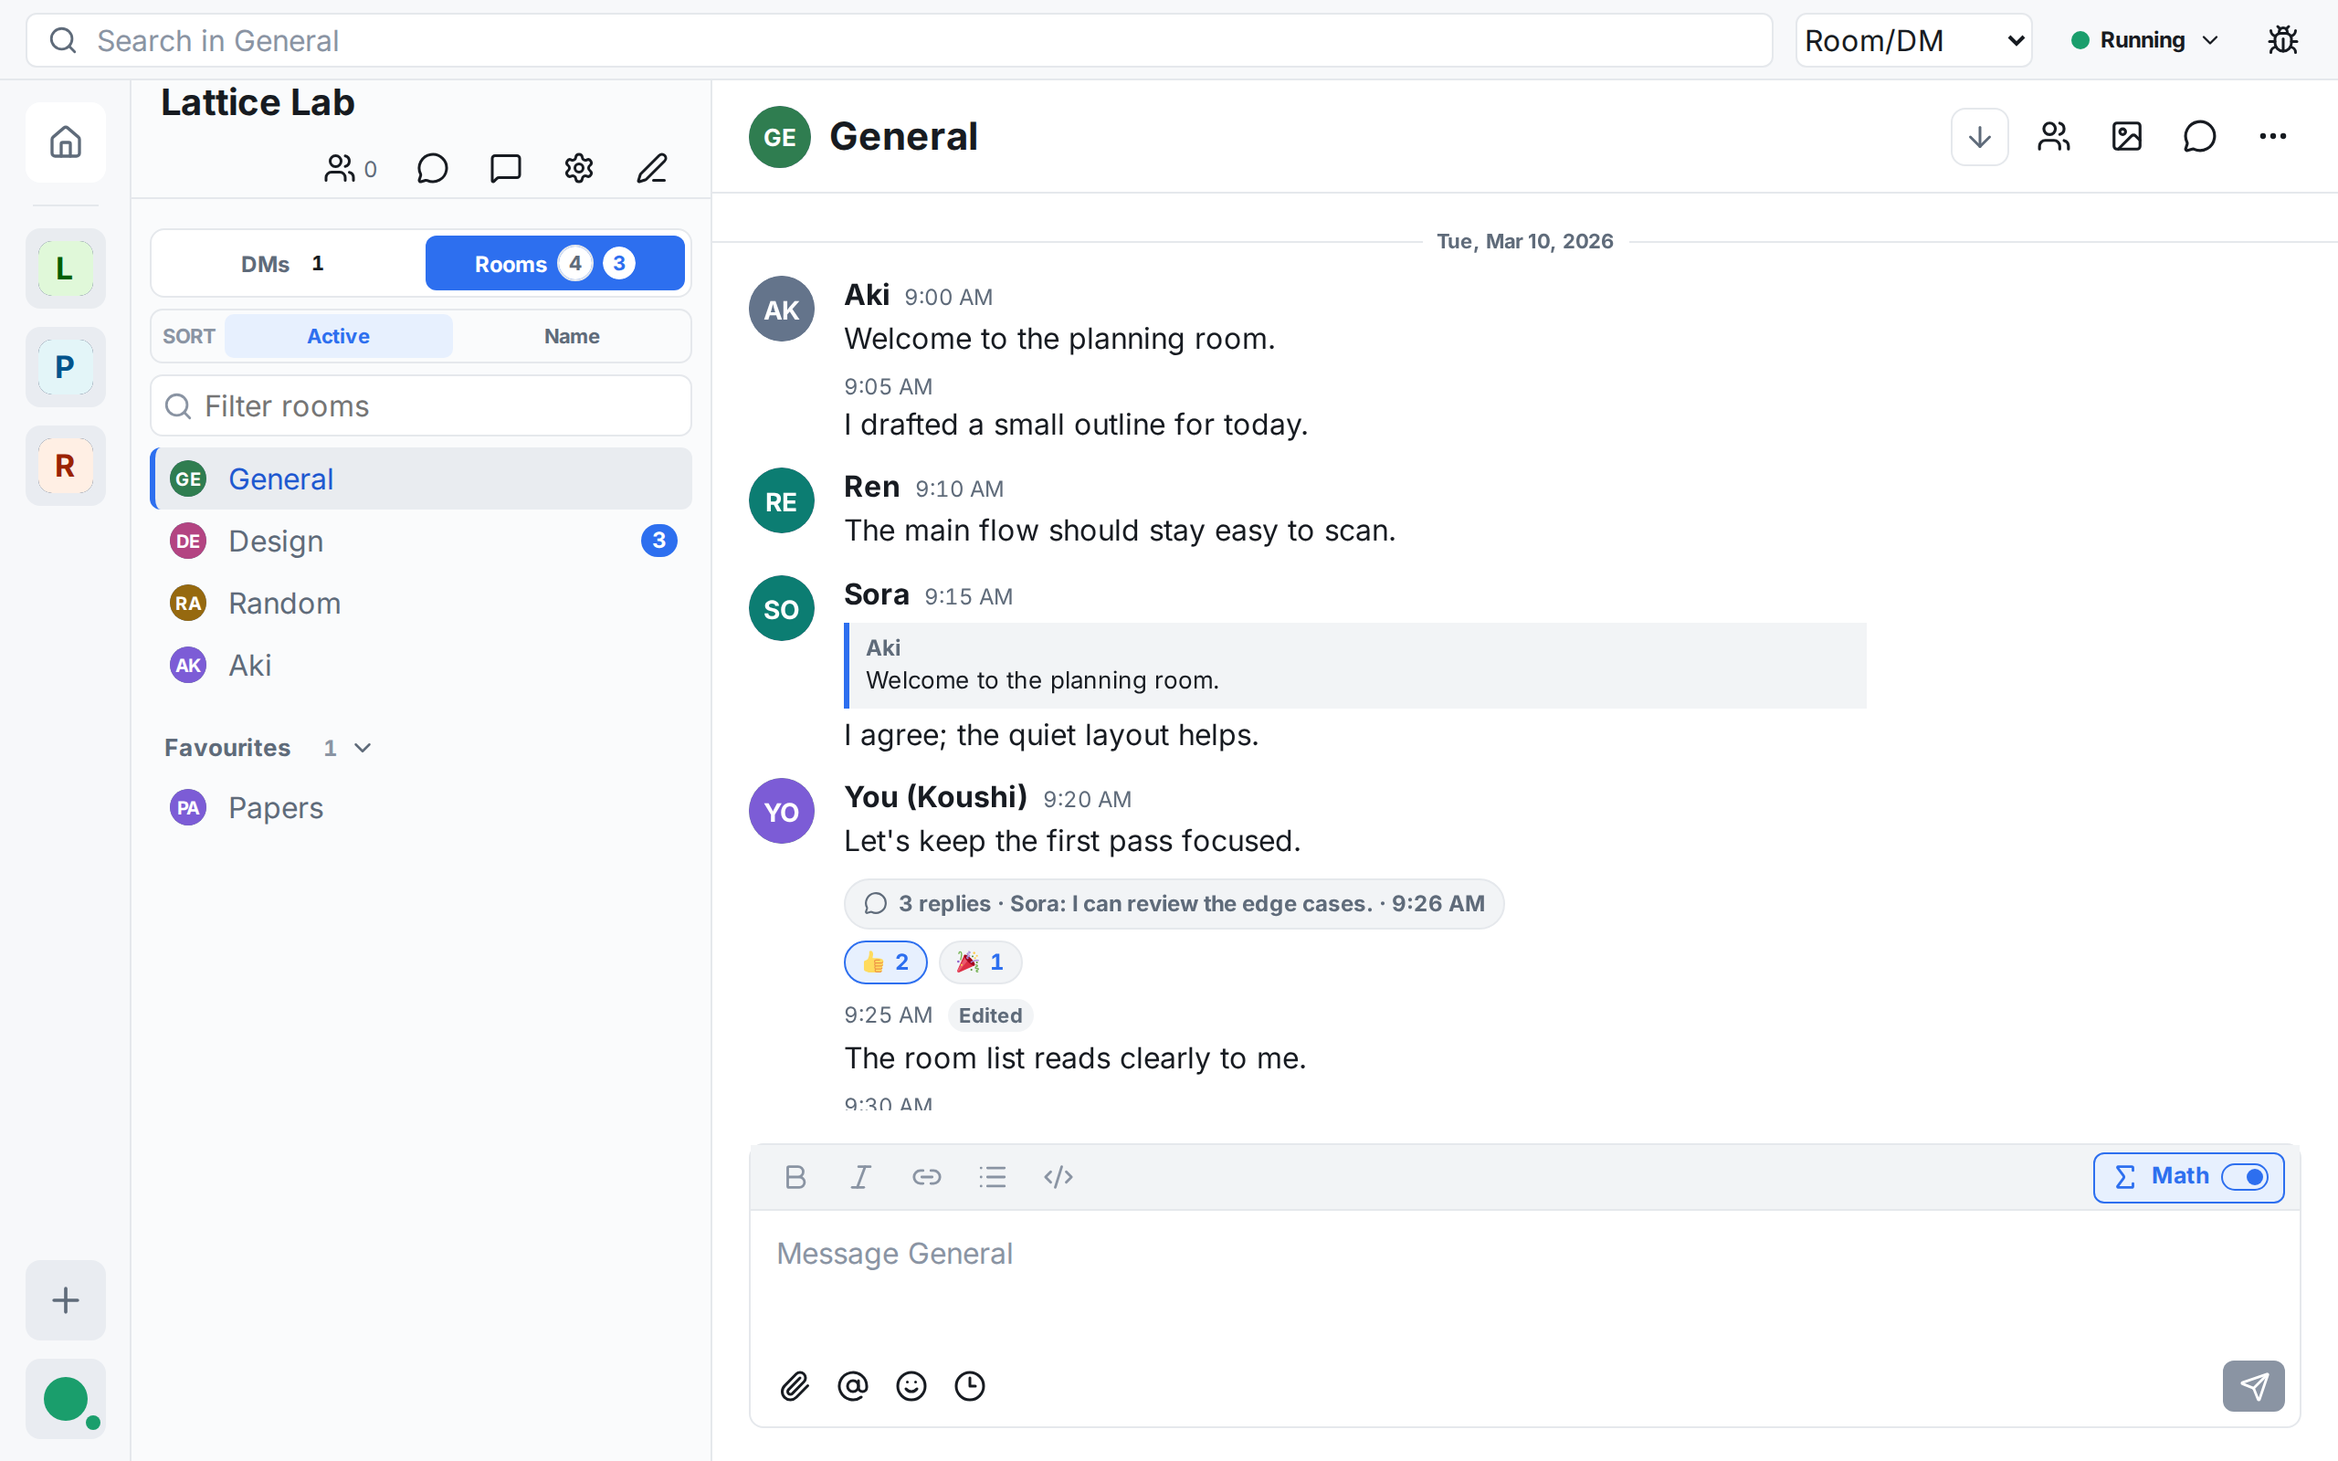
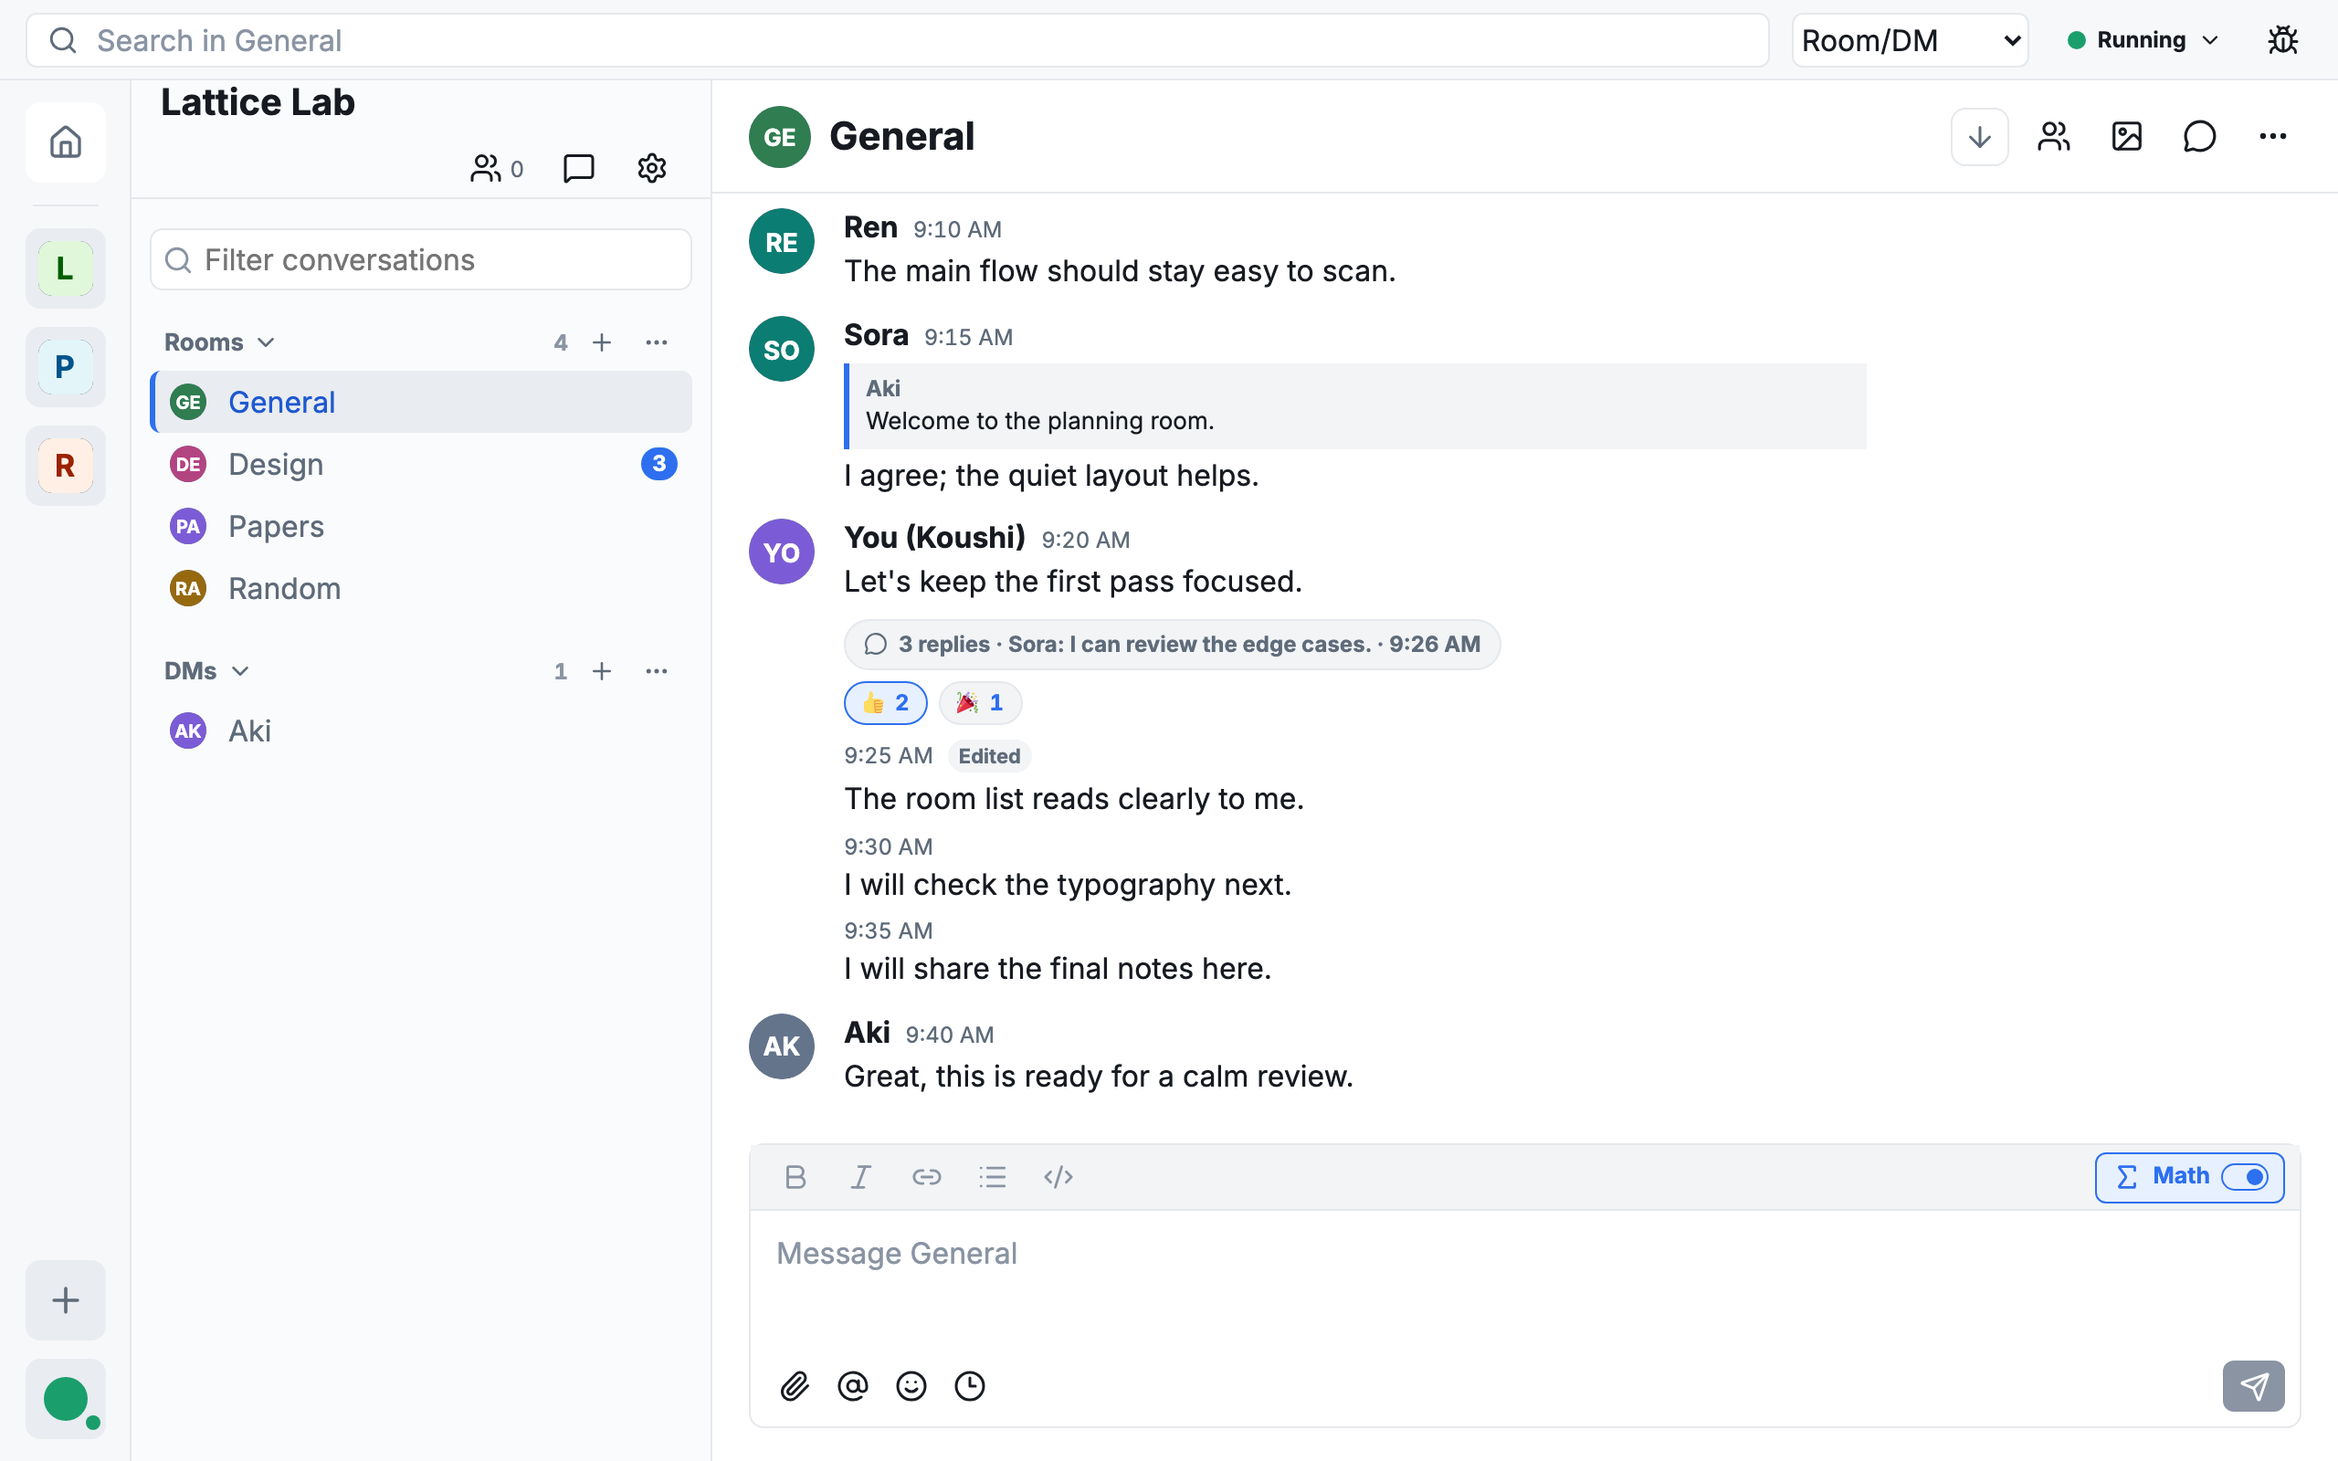
test(desktop): update sidebar e2e coverage

diff --git a/apps/desktop/e2e/room-space-invites.spec.ts b/apps/desktop/e2e/room-space-invites.spec.ts
@@ -842,10 +842,9 @@ test("invites view accepts a seeded invite and New DM renders the returned direc
       page.evaluate(() => window.__harness.invocationsOf("start_direct_message")[0]?.args)
     )
     .toEqual({ userId: "@target:example.invalid" });
-  await page.getByRole("button", { name: /^DMs,/ }).click();
   await expect(
     page
-      .locator('[data-room-section="people"]')
+      .locator('[data-room-section="dms"]')
       .getByRole("button", { name: "@target:example.invalid" })
   ).toBeVisible();
 });
@@ -1483,8 +1482,7 @@ test("local aliases dispatch typed account command and render Rust-projected lab
     });
   await expect(profilePanel.getByRole("heading", { name: "Desk Alias" })).toBeVisible();
   await expect(profilePanel.getByText("Original: Target Member")).toBeVisible();
-  await page.getByRole("button", { name: /^DMs,/ }).click();
-  await expect(page.locator('[data-room-section="people"]').getByText("Desk Alias")).toBeVisible();
+  await expect(page.locator('[data-room-section="dms"]').getByText("Desk Alias")).toBeVisible();
 
   await seedTimelineItems(
     page,
@@ -1546,7 +1544,7 @@ test("local aliases dispatch typed account command and render Rust-projected lab
   await expect(timelineAliasRow.locator(".sender")).toHaveText("Timeline Alias");
   await expect(profilePanel.getByRole("heading", { name: "Timeline Alias" })).toBeVisible();
   await expect(
-    page.locator('[data-room-section="people"]').getByText("Timeline Alias")
+    page.locator('[data-room-section="dms"]').getByText("Timeline Alias")
   ).toBeVisible();
 
   await profilePanel.getByRole("button", { name: t("people.setAlias") }).click();
@@ -1565,9 +1563,9 @@ test("local aliases dispatch typed account command and render Rust-projected lab
     });
   await expect(profilePanel.getByRole("heading", { name: "Target Member" })).toBeVisible();
   await expect(
-    page.locator('[data-room-section="people"]').getByText("Target Member")
+    page.locator('[data-room-section="dms"]').getByText("Target Member")
   ).toBeVisible();
-  await expect(page.locator('[data-room-section="people"]').getByText("Desk Alias")).toHaveCount(0);
+  await expect(page.locator('[data-room-section="dms"]').getByText("Desk Alias")).toHaveCount(0);
 });
 
 test("room tag context menu dispatches typed commands and waits for Rust section state", async ({
@@ -1648,7 +1646,7 @@ test("room tag context menu dispatches typed commands and waits for Rust section
       )
     )
     .toEqual(["Harness Room"]);
-  await expect(roomsSection.getByRole("button", { name: "Harness Room" })).toHaveCount(0);
+  await expect(roomsSection.getByRole("button", { name: "Harness Room" })).toBeVisible();
   await page.evaluate(() => {
     const snapshot = window.__harness.currentSnapshot();
     window.__harness.setSnapshot({
@@ -1666,9 +1664,9 @@ test("room tag context menu dispatches typed commands and waits for Rust section
     });
     window.__harness.pushStateUpdate();
   });
-  await expect(favouritesSection.getByRole("button", { name: "Harness Room" })).toBeVisible();
+  await expect(roomsSection.getByRole("button", { name: "Harness Room" })).toBeVisible();
 
-  await favouritesSection.getByRole("button", { name: "Harness Room" }).click({
+  await roomsSection.getByRole("button", { name: "Harness Room" }).click({
     button: "right"
   });
   await page.getByRole("menuitem", { name: "Remove from Favourites" }).click();
@@ -1682,7 +1680,7 @@ test("room tag context menu dispatches typed commands and waits for Rust section
       roomId: HARNESS_ROOM_ID,
       tag: "favourite"
     });
-  await expect(favouritesSection.getByRole("button", { name: "Harness Room" })).toBeVisible();
+  await expect(roomsSection.getByRole("button", { name: "Harness Room" })).toBeVisible();
 
   await page.evaluate((roomId) => {
     const snapshot = window.__harness.currentSnapshot();
@@ -1893,22 +1891,11 @@ test("room sections follow Element-aligned order and render Rust-owned counts", 
     window.__harness.pushStateUpdate();
   });
 
-  await expect(page.getByRole("button", { name: "DMs, 2 unread, 1 total" })).toBeVisible();
-  await expect(
-    page.getByRole("button", { name: "Rooms, 1 unread, 3 total, 1 mentions" })
-  ).toBeVisible();
-
-  await page.getByRole("button", { name: "DMs, 2 unread, 1 total" }).click();
-  await expect(page.locator('[data-room-section="people"]')).toBeVisible();
-  await expect(
-    page.locator('[data-room-section="people"]').getByRole("button", { name: "Direct Person" })
-  ).toBeVisible();
-
-  await page.getByRole("button", { name: "Rooms, 1 unread, 3 total, 1 mentions" }).click();
-  await expect(page.locator('[data-room-section="people"]')).toHaveCount(0);
-  await expect(page.locator('[data-room-section="rooms"]')).toBeVisible();
-  await expect(page.locator('[data-room-section="favourites"]')).toBeVisible();
-  await expect(page.locator('[data-room-section="low-priority"]')).toBeVisible();
+  const dmsSection = page.locator('[data-room-section="dms"]');
+  const roomsSection = page.locator('[data-room-section="rooms"]');
+  await expect(dmsSection).toBeVisible();
+  await expect(roomsSection).toBeVisible();
+  await expect(dmsSection.getByRole("button", { name: "Direct Person" })).toBeVisible();
 
   await expect
     .poll(() =>
@@ -1916,17 +1903,15 @@ test("room sections follow Element-aligned order and render Rust-owned counts", 
         sections.map((section) => section.getAttribute("data-room-section"))
       )
     )
-    .toEqual(["rooms", "favourites", "low-priority"]);
+    .toEqual(["rooms", "dms"]);
 
-  await expect(page.locator('[data-room-section="favourites"] .section-count')).toHaveText("1");
-  await expect(page.locator('[data-room-section="low-priority"] .section-count')).toHaveText("1");
+  await expect(roomsSection.locator(".section-count")).toHaveText("3");
+  await expect(dmsSection.locator(".section-count")).toHaveText("1");
   await expect(
-    page.locator('[data-room-section="rooms"]').getByRole("button", { name: "Plain Room" })
+    roomsSection.getByRole("button", { name: "Plain Room" })
   ).toBeVisible();
 
-  const favouriteRoom = page
-    .locator('[data-room-section="favourites"]')
-    .getByRole("button", { name: "Favourite Room" });
+  const favouriteRoom = roomsSection.getByRole("button", { name: "Favourite Room" });
   await expect(favouriteRoom).toHaveAttribute("data-mention-count", "1");
   await expect(favouriteRoom.locator(".room-mention-dot")).toBeVisible();
   await expect(favouriteRoom.locator(".room-count")).toHaveText("1");
@@ -1950,8 +1935,7 @@ test("room sections follow Element-aligned order and render Rust-owned counts", 
     });
     window.__harness.pushStateUpdate();
   });
-  await expect(page.locator('[data-room-section="favourites"]')).toHaveCount(0);
-  await expect(page.locator('[data-room-section="low-priority"]')).toBeVisible();
+  await expect(roomsSection.getByRole("button", { name: "Low Priority Room" })).toBeVisible();
 });
 
 test("category unread badges keep DMs and Rooms attention visible from Rust sidebar counts", async ({
@@ -1992,28 +1976,12 @@ test("category unread badges keep DMs and Rooms attention visible from Rust side
     window.__harness.pushStateUpdate();
   });
 
-  const dms = page.getByRole("button", { name: "DMs, 3 unread, 58 total" });
-  const rooms = page.getByRole("button", {
-    name: "Rooms, 5 unread, 46 total, 2 mentions"
-  });
+  const dms = page.locator('[data-room-section="dms"]');
+  const rooms = page.locator('[data-room-section="rooms"]');
   await expect(dms).toBeVisible();
   await expect(rooms).toBeVisible();
-  await expect(dms.locator(".room-list-chip-total")).toHaveText("58");
-  await expect(dms.locator(".room-list-chip-unread")).toHaveText("3");
-  await expect(rooms.locator(".room-list-chip-total")).toHaveText("46");
-  await expect(rooms.locator(".room-list-chip-unread")).toHaveText("5");
-  await expect(rooms.locator(".room-list-chip-unread")).toHaveClass(/is-highlight/);
-
-  await dms.click();
-  await expect(dms).toHaveAttribute("aria-pressed", "true");
-  await expect(rooms).toBeVisible();
-  await expect
-    .poll(() =>
-      page.evaluate(
-        () => window.__harness.currentSnapshot().state.domain.settings.values.sidebar.category
-      )
-    )
-    .toBe("people");
+  await expect(dms.locator(".section-count")).toHaveText("58");
+  await expect(rooms.locator(".section-count")).toHaveText("46");
 
   await page.evaluate(() => {
     const snapshot = window.__harness.currentSnapshot();
@@ -2030,11 +1998,8 @@ test("category unread badges keep DMs and Rooms attention visible from Rust side
     window.__harness.pushStateUpdate();
   });
 
-  const clearedDms = page.getByRole("button", { name: "DMs, 0 unread, 58 total" });
-  const largeRooms = page.getByRole("button", { name: "Rooms, 120 unread, 46 total" });
-  await expect(clearedDms.locator(".room-list-chip-unread")).toHaveCount(0);
-  await expect(largeRooms.locator(".room-list-chip-unread")).toHaveText("99+");
-  await expect(largeRooms).toBeVisible();
+  await expect(dms.locator(".section-count")).toHaveText("58");
+  await expect(rooms.locator(".section-count")).toHaveText("46");
 });
 
 test("notification attention snapshot drives room, space, thread, and click routing headlessly", async ({
@@ -2214,7 +2179,9 @@ test("notification attention snapshot drives room, space, thread, and click rout
   });
 
   await expect(page.locator('[data-room-section="rooms"]')).toBeVisible();
-  await expect(page.locator('[data-room-section="low-priority"]')).toBeVisible();
+  await expect(
+    page.locator('[data-room-section="rooms"]').getByRole("button", { name: "Quiet Low Priority" })
+  ).toBeVisible();
   const attentionRoom = page.getByRole("button", { name: "Attention Room" });
   const lowPriorityRoom = page.getByRole("button", { name: "Quiet Low Priority" });
   await expect(attentionRoom.locator(".room-count")).toHaveText("4");
@@ -2407,7 +2374,6 @@ test("room selection keeps a delta that arrives before its command receipt", asy
     window.__harness.clearInvocations();
   });
 
-  await page.getByRole("button", { name: /^Rooms,/ }).click();
   const targetRoom = page.getByRole("button", { name: "Delta Selected Room" });
   await expect(targetRoom).toBeVisible();
   await targetRoom.click();

diff --git a/apps/desktop/e2e/space-dm-scope.spec.ts b/apps/desktop/e2e/space-dm-scope.spec.ts
@@ -4,7 +4,7 @@ import { t } from "../src/i18n/messages";
 test("active space sidebar renders the Rust-projected DM scope", async ({ page }) => {
   await page.goto("/appHarness.html");
   await expect(page.getByRole("complementary", { name: t("workspace.rooms") })).toBeVisible();
-  const peopleSection = page.locator('[data-room-section="people"]');
+  const dmsSection = page.locator('[data-room-section="dms"]');
 
   await page.evaluate(() => {
     const snapshot = window.__harness.currentSnapshot();
@@ -46,9 +46,8 @@ test("active space sidebar renders the Rust-projected DM scope", async ({ page }
     window.__harness.pushStateUpdate();
   });
 
-  await page.getByRole("button", { name: "DMs, 1 unread, 2 total" }).click();
-  await expect(peopleSection.getByRole("button", { name: "Member 1" })).toBeVisible();
-  await expect(peopleSection.getByRole("button", { name: "Member 2" })).toBeVisible();
+  await expect(dmsSection.getByRole("button", { name: "Member 1" })).toBeVisible();
+  await expect(dmsSection.getByRole("button", { name: "Member 2" })).toBeVisible();
 
   await page.evaluate(() => {
     const snapshot = window.__harness.currentSnapshot();
@@ -107,7 +106,6 @@ test("active space sidebar renders the Rust-projected DM scope", async ({ page }
   });
 
   await expect(page.getByRole("button", { name: "matrix-sdk-search" })).toBeVisible();
-  await page.getByRole("button", { name: "DMs, 0 unread, 0 total" }).click();
-  await expect(peopleSection.getByRole("button", { name: "Member 1" })).toHaveCount(0);
-  await expect(peopleSection.getByRole("button", { name: "Member 2" })).toHaveCount(0);
+  await expect(dmsSection.getByRole("button", { name: "Member 1" })).toHaveCount(0);
+  await expect(dmsSection.getByRole("button", { name: "Member 2" })).toHaveCount(0);
 });

diff --git a/apps/desktop/e2e-docs/readme-screenshot.spec.ts b/apps/desktop/e2e-docs/readme-screenshot.spec.ts
@@ -43,9 +43,9 @@ test("generates the deterministic README application composition", async ({ page
   await expect(workspaces.getByRole("button", { name: "Release Crew", exact: true })).toBeVisible();
   await expect(page.getByRole("button", { name: "General", exact: true })).toHaveClass(/is-active/);
   await expect(page.getByRole("button", { name: "Design", exact: true })).toContainText("3");
-  await expect(page.locator('[data-room-section="favourites"]')).toContainText("Papers");
-  await expect(page.getByRole("button", { name: "Aki", exact: true })).toBeVisible();
-  await expect(page.getByRole("button", { name: /DMs.*1 total/ })).toBeVisible();
+  await expect(page.locator('[data-room-section="rooms"]')).toContainText("Papers");
+  await expect(page.locator('[data-room-section="dms"]')).toContainText("Aki");
+  await expect(page.locator('[data-room-section="dms"] .section-count')).toHaveText("1");
   await expect(page.locator("article.message[data-event-id]")).toHaveCount(9);
   const dateLabel = new Intl.DateTimeFormat("en-US", {
     weekday: "short",

diff --git a/apps/desktop/e2e/profile-settings-session.spec.ts b/apps/desktop/e2e/profile-settings-session.spec.ts
@@ -376,8 +376,6 @@ test("Japanese locale renders shell labels and CJK text without clipping", async
   await expect(
     page.locator(".channel-actions").getByRole("button", { name: "Threads", exact: true })
   ).toHaveCount(0);
-  await page.getByRole("button", { name: /^ルーム、/ }).click();
-  await page.getByRole("button", { name: /^(アクティブ|Active)$/ }).click();
   await expect
     .poll(async () =>
       page
